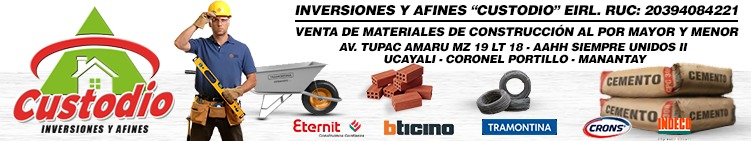
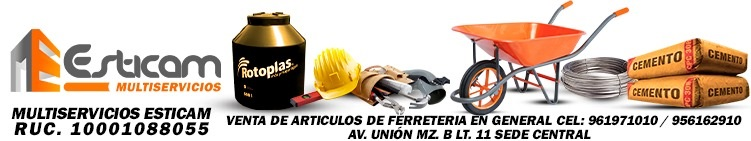
hereda custodio

diff --git a/api/index.php b/api/index.php
@@ -18,11 +18,11 @@ $config['addContentLengthHeader'] = false;
 
 $config['db']['host']   = "127.0.0.1";
 $config['db']['user']   = "root";
-// $config['db']['user']   = "neurosys_CUSTODIO";
+// $config['db']['user']   = "neurosys_ESTICAM";
 $config['db']['pass']   = "";
 // $config['db']['pass']   = "IX!!q!t(&Fc^";
-$config['db']['dbname'] = "fact_icustodio";
-// $config['db']['dbname'] = "neurosys_CUSTODIO";
+$config['db']['dbname'] = "fact_iESTICAM";
+// $config['db']['dbname'] = "neurosys_ESTICAM";
 
 $app = new \Slim\App(["settings" => $config]);
 $container = $app->getContainer();
@@ -578,7 +578,7 @@ $app->get('/productos/kardex/{id}', function (Request $request, Response $respon
 
 
 
-/* CUSTODIO */
+/* ESTICAM */
 $app->get('/habitaciones', function (Request $request, Response $response, array $args) {
     $select = "SELECT Gen_Producto.*, Gen_ProductoCategoria.ProductoCategoria, Gen_ProductoMarca.ProductoMarca,
         Gen_ProductoMedicion.ProductoMedicion, Ve_DocVentaCliente.DniRuc, Ve_DocVentaCliente.Cliente, Ve_DocVentaCliente.IdCliente,
@@ -3769,8 +3769,8 @@ $app->post('/clientes', function (Request $request, Response $response) {
 define('NRO_DOCUMENTO_EMPRESA', '20394084221');
 define('TIPO_DOCUMENTO_EMPRESA', '6'); //1 DNI 6 RUC
 define('TIPO_PROCESO', '01'); //01 PRODUCCION 03 BETA
-define('RAZON_SOCIAL_EMPRESA', 'INVERSIONES Y AFINES CUSTODIO E.I.R.L.');
-define('NOMBRE_COMERCIAL_EMPRESA', 'INVERSIONES Y AFINES CUSTODIO E.I.R.L.');
+define('RAZON_SOCIAL_EMPRESA', 'INVERSIONES Y AFINES ESTICAM E.I.R.L.');
+define('NOMBRE_COMERCIAL_EMPRESA', 'INVERSIONES Y AFINES ESTICAM E.I.R.L.');
 define('CODIGO_UBIGEO_EMPRESA', "250101");
 define('DIRECCION_EMPRESA', "AV. TUPAC AMARU MZA. 19 LOTE. 18 A.H. SIEMPRE UNIDOS II (ANTES DEL GRIFO SANTA FELICIA) UCAYALI - CORONEL PORTILLO - MANANTAY");
 define('DEPARTAMENTO_EMPRESA', "UCAYALI");
@@ -3779,7 +3779,7 @@ define('DISTRITO_EMPRESA', "MANANTAY");
 define('TELEFONOS_EMPRESA', "");
 
 define('CODIGO_PAIS_EMPRESA', 'PE');
-define('USUARIO_SOL_EMPRESA', 'CUSTODIO'); // cambiar cuando se pase a produccion //NEURO123
+define('USUARIO_SOL_EMPRESA', 'ESTICAM'); // cambiar cuando se pase a produccion //NEURO123
 define('PASS_SOL_EMPRESA', 'Custodi0'); // cambiar cuando se pase a produccion
 
 $app->post('/emitirelectronico', function (Request $request, Response $response) {

diff --git a/imprimir/notacredito.php b/imprimir/notacredito.php
@@ -109,8 +109,9 @@ if ($docVenta['CampoDireccion']) {
     <img width="80px" src="../resources/images/delmancito.jpg"  /><br /><br />
   </div>-->
  <div class="center"><img src="/resources/images/logo-ticket.png" style="max-width:100%; width: 40mm"/></div><br>
-  <div class="center"><b>INVERSIONES Y AFINES CUSTODIO E.I.R.L.</b></div>
-  <div class="center"><b>RUC:20394084221</b> </div><br>
+  <div class="center"><b>DE:TOLENTINO MURRIETA GENITH MAGALY</b></div>
+  <div class="center"><b>RUC:10001088055</b> </div><br>
+  <div class="center small">VENTA AL POR MENOR DE ARTÍCULOS DE FERRETERÍA </div>
   <!--<div class="center small">VENTA DE ....</div>-->
   <center>
   <div class="">NOTA DE CREDITO </br> <span style="font-size:15px"><?php echo $docVentaNro; ?></span></div>
@@ -285,8 +286,8 @@ if ($docVenta['CampoDireccion']) {
   </tr>
   </table >
   </center>
-  <div class="center small">AV. TUPAC AMARU MZA. 19 LOTE. 18 A.H. </br>SIEMPRE UNIDOS II </div>
-  <div class="center small">CORONEL PORTILLO - MANANTAY - UCAYALI</div>
+  <div class="center small">AV. UNIÓN MZ. B LT. 11 </div>
+  <div class="center small">CORONEL PORTILLO - CALLERIA - UCAYALI</div>
   <!--<div class="center small">TELF. xxx - CEL. xxx</div>-->
   <div class="center small">GRACIAS POR SU COMPRA</div>
   <center><br /><span style="font-size:11px">DESARROLLADO POR: </br>https://neurosystemperu.com/</span>  </center>

diff --git a/models/DBManager.php b/models/DBManager.php
@@ -5,7 +5,7 @@ header( 'Content-Type: text/html;charset=utf-8' );
 function ejecutarSQLCommand($commando){
 
   $mysqli = new mysqli("localhost", "root", '', "neuro");
-  // $mysqli = new mysqli("localhost", "neurosys_CUSTODIO", 'IX!!q!t(&Fc^', "neurosys_CUSTODIO");
+  // $mysqli = new mysqli("localhost", "neurosys_ESTICAM", 'IX!!q!t(&Fc^', "neurosys_ESTICAM");
   //$mysqli = new mysqli("localhost", "root", "", "botica");
 /* check connection */
 if ($mysqli->connect_errno) {
@@ -44,7 +44,7 @@ function getSQLResultSet($commando){
 
     // $link = mysql_connect("localhost", "root", "");
     $mysqli = new mysqli("localhost", "root", '', 'neuro');
-    // $mysqli = new mysqli("localhost", "neurosys_CUSTODIO", 'IX!!q!t(&Fc^', "neurosys_CUSTODIO");
+    // $mysqli = new mysqli("localhost", "neurosys_ESTICAM", 'IX!!q!t(&Fc^', "neurosys_ESTICAM");
 
     $mysqli->set_charset("utf8");
     // $acentos = mysql_query("SET NAMES 'utf8'");
@@ -80,7 +80,7 @@ function getSQLResultSet($commando){
 
 function getMysqliLink() {
     $mysqli = new mysqli("localhost", "root", '', 'neuro');
-    //$mysqli = new mysqli("localhost", "neurosys_CUSTODIO", 'IX!!q!t(&Fc^', 'neurosys_CUSTODIO');
+    //$mysqli = new mysqli("localhost", "neurosys_ESTICAM", 'IX!!q!t(&Fc^', 'neurosys_ESTICAM');
     $mysqli->set_charset("utf8");
     if (!$mysqli) {
         die('Error de conexion ' . $mysqli->error );

diff --git a/imprimir/boletaelectronica.php b/imprimir/boletaelectronica.php
@@ -98,9 +98,9 @@ if ($docVenta['CampoDireccion']) {
     <img width="80px" src="../resources/images/delmancito.jpg"  /><br /><br />
   </div>-->
  <div class="center"><img src="/resources/images/logo-ticket.png" style="max-width:100%; width: 40mm"/></div><br>
-  <div class="center"><b>INVERSIONES Y AFINES CUSTODIO E.I.R.L.</b></div>
-  <div class="center"><b>RUC:20394084221</b> </div><br>
-  <!--<div class="center small">VENTA DE ....</div>-->
+  <div class="center"><b>DE:TOLENTINO MURRIETA GENITH MAGALY</b></div>
+  <div class="center"><b>RUC:10001088055</b> </div><br>
+  <div class="center small">VENTA AL POR MENOR DE ARTÍCULOS DE FERRETERÍA </div>
 
 
   <?php if ($tipoDoc == 'TICKET BOLETA' || $tipoDoc == 'TICKET FACTURA'): ?>
@@ -276,8 +276,8 @@ if ($docVenta['CampoDireccion']) {
   </tr>
   </table >
   </center>
-  <div class="center small">AV. TUPAC AMARU MZA. 19 LOTE. 18 A.H. </br>SIEMPRE UNIDOS II </div>
-  <div class="center small">CORONEL PORTILLO - MANANTAY - UCAYALI</div>
+  <div class="center small">AV. UNIÓN MZ. B LT. 11 </div>
+  <div class="center small">CORONEL PORTILLO - CALLERIA - UCAYALI</div>
   <!--<div class="center small">TELF. xxx - CEL. xxx</div>-->
   <div class="center small">GRACIAS POR SU COMPRA</div>
   <center><br /><span style="font-size:11px">DESARROLLADO POR: </br>https://neurosystemperu.com/</span>  </center>

diff --git a/imprimir/facturaelectronica.php b/imprimir/facturaelectronica.php
@@ -100,8 +100,9 @@ if ($docVenta['CampoDireccion']) {
     <img width="80px" src="../resources/images/delmancito.jpg"  /><br /><br />
   </div>-->
   <div class="center"><img src="/resources/images/logo-ticket.png" style="max-width:100%; width: 40mm"/></div><br>
-  <div class="center"><b>INVERSIONES Y AFINES CUSTODIO E.I.R.L.</b></div>
-  <div class="center"><b>RUC:20394084221</b> </div><br>
+  <div class="center"><b>DE:TOLENTINO MURRIETA GENITH MAGALY</b></div>
+  <div class="center"><b>RUC:10001088055</b> </div><br>
+  <div class="center small">VENTA AL POR MENOR DE ARTÍCULOS DE FERRETERÍA </div>
   <!--<div class="center small">VENTA DE ....</div>-->
 
 
@@ -275,8 +276,8 @@ if ($docVenta['CampoDireccion']) {
   </tr>
   </table >
   </center>
-  <div class="center small">AV. TUPAC AMARU MZA. 19 LOTE. 18 A.H. </br>SIEMPRE UNIDOS II </div>
-  <div class="center small">CORONEL PORTILLO - MANANTAY - UCAYALI</div>
+  <div class="center small">AV. UNIÓN MZ. B LT. 11 </div>
+  <div class="center small">CORONEL PORTILLO - CALLERIA - UCAYALI</div>
   <!--<div class="center small">TELF. xxx - CEL. xxx</div>-->
   <div class="center small">GRACIAS POR SU COMPRA</div>
   <center><br /><span style="font-size:11px">DESARROLLADO POR: </br>https://neurosystemperu.com/</span>  </center>

diff --git a/imprimir/ticket.php b/imprimir/ticket.php
@@ -90,8 +90,9 @@ $igv = 0;
     <img width="80px" src="../resources/images/delmancito.jpg"  /><br /><br />
   </div>-->
   <div class="center"><img src="/resources/images/logo-ticket.png" style="max-width:100%; width: 40mm"/></div><br>
-  <div class="center"><b>INVERSIONES Y AFINES CUSTODIO E.I.R.L.</b></div>
-  <div class="center"><b>RUC:20394084221</b> </div><br>
+  <div class="center"><b>DE:TOLENTINO MURRIETA GENITH MAGALY</b></div>
+  <div class="center"><b>RUC:10001088055</b> </div><br>
+  <div class="center small">VENTA AL POR MENOR DE ARTÍCULOS DE FERRETERÍA </div>
   <!--<div class="center small">VENTA DE ....</div>-->
   <br />
 
@@ -102,7 +103,7 @@ $igv = 0;
     <br />
   <?php endif; ?>
   <center>
-  <div class="">TICKET</br> <span style="font-size:15px"> <?php echo $docVentaNro; ?></span></div>
+  <div class="">NOTA DE VENTA</br> <span style="font-size:15px"> <?php echo $docVentaNro; ?></span></div>
   <div class="">FECHA: <?php echo $fechaDoc; ?></div>
   <!-- <div class="">SERIE MAQ REG : <?php echo $serieMaq; ?></div> -->
   </center>

diff --git a/imprimir/proformaticket.php b/imprimir/proformaticket.php
@@ -89,8 +89,9 @@ $igv = 0;
     <img width="80px" src="../resources/images/delmancito.jpg"  /><br /><br />
   </div>-->
   <div class="center"><img src="/resources/images/logo-ticket.png" style="max-width:100%; width: 40mm"/></div><br />
-  <div class="center">INVERSIONES Y AFINES "CUSTODIO" E.I.R.L.</div>
-  <div class="center">RUC: 20394084221 </div>
+  <div class="center"><b>DE:TOLENTINO MURRIETA GENITH MAGALY</b></div>
+  <div class="center"><b>RUC:10001088055</b> </div><br>
+  <div class="center small">VENTA AL POR MENOR DE ARTÍCULOS DE FERRETERÍA </div>
   <div class="center small">.</div>
   <br />
 
@@ -183,7 +184,8 @@ $igv = 0;
 
   </div>
   <br />
-  <div class="center small">AV. TUPAC AMARU MZ 19 LT 18 - AAHH SIEMPRE UNIDOS II</div>
+  <div class="center small">AV. UNIÓN MZ. B LT. 11 </div>
+  <div class="center small">CORONEL PORTILLO - CALLERIA - UCAYALI</div>
   <br />
   <div class="center small">UCAYALI - CORONEL PORTILLO – MANANTAY</div>
   <div class="center small">.</div>

diff --git a/views/header.php b/views/header.php
@@ -59,7 +59,7 @@ function datos(){
         <span class="icon-bar"></span>
         <span class="icon-bar"></span>
       </button>
-      <a class="navbar-brand" href="<?php echo Login; ?>">CUSTODIO</a>
+      <a class="navbar-brand" href="<?php echo Login; ?>">ESTICAM</a>
     </div>
     <div class="collapse navbar-collapse" id="myNavbar">
     <ul class="nav navbar-nav" >

diff --git a/views/ve_reimpresionDocumentos_back.php b/views/ve_reimpresionDocumentos_back.php
@@ -8,7 +8,7 @@ include_once("../clases/helpers/Modal.php");
  <html>
  <head>
  	<meta http-equiv="Content-type" content="text/html; charset=utf-8" />
-  <title>CUSTODIO - Reimpresión de documentos</title>
+  <title>ESTICAM - Reimpresión de documentos</title>
 
  </head>
 <?php include_once 'linker.php'; ?>

diff --git a/views/FrmCb_CajaBancoBuscador.php b/views/FrmCb_CajaBancoBuscador.php
@@ -8,7 +8,7 @@ include_once("../clases/helpers/Modal.php");
  <html>
  <head>
  	<meta http-equiv="Content-type" content="text/html; charset=utf-8" />
-  <title>CUSTODIO - Producto</title>
+  <title>ESTICAM - Producto</title>
 
  </head>
 <?php include_once 'linker.php'; ?>

diff --git a/views/V_PreOrden.php b/views/V_PreOrden.php
@@ -8,7 +8,7 @@ include_once("../clases/helpers/Modal.php");
  <html>
  <head>
  	<meta http-equiv="Content-type" content="text/html; charset=utf-8" />
-  <title>CUSTODIO - Producto</title>
+  <title>ESTICAM - Producto</title>
 
  </head>
 <?php include_once 'linker.php'; ?>

diff --git a/views/V_VentaForm_back.php b/views/V_VentaForm_back.php
@@ -8,7 +8,7 @@ include_once("../clases/helpers/Modal.php");
  <html>
  <head>
  	<meta http-equiv="Content-type" content="text/html; charset=utf-8" />
-  <title>CUSTODIO - Producto</title>
+  <title>ESTICAM - Producto</title>
 
  </head>
 <?php include_once 'linker.php'; ?>
